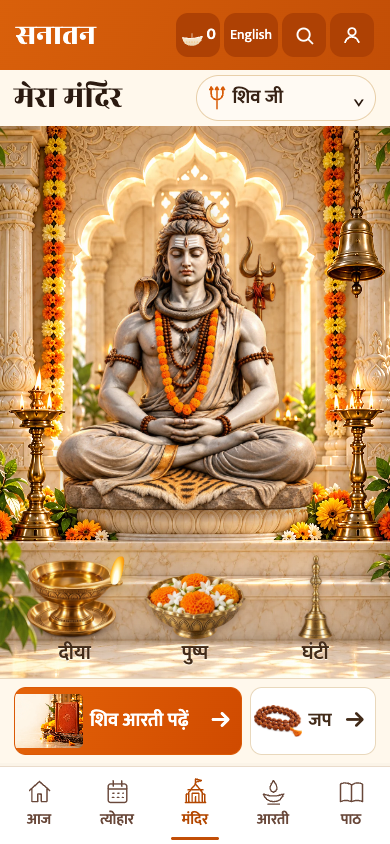
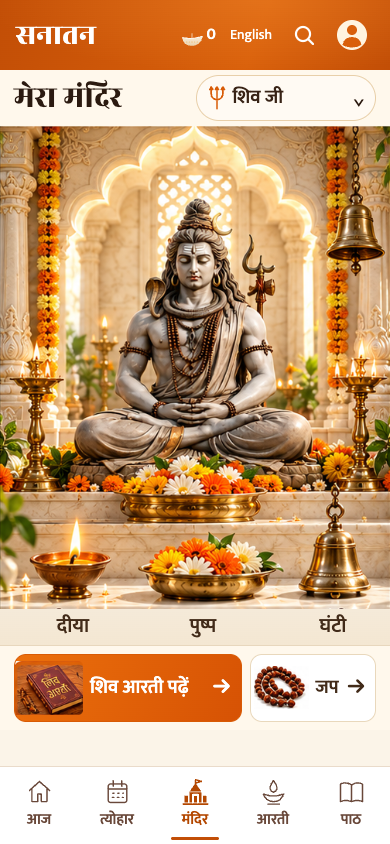
Use approved Mandir scene with live offering states

diff --git a/src/index.css b/src/index.css
@@ -264,14 +264,14 @@ h1, h2, h3 { text-wrap: balance; }
 
 /* Shared saffron-and-ivory redesign: readable text stays live, never baked into art. */
 .app-shell { padding-bottom: calc(94px + env(safe-area-inset-bottom, 0px)); }
-.app-topbar { position: relative; z-index: 10; color: #fff; background: linear-gradient(115deg, #d9600b, #c24e06); }
+.app-topbar { position: relative; z-index: 10; color: #fff; background: radial-gradient(ellipse at 65% 0%, #f9953755, transparent 75%), linear-gradient(110deg, #c24e06, #d9600b 65%, #c24e06); }
 .topbar-row { max-width: 576px; min-height: 70px; margin: auto; padding: 8px 16px; display: flex; align-items: center; gap: 8px; }
 .topbar-brand { font-family: var(--font-display); font-size: 30px; line-height: 1.5; color: #fff; white-space: nowrap; min-height: 48px; }
 .topbar-actions { display: flex; align-items: center; gap: 4px; margin-left: auto; }
-.topbar-action, .topbar-counter, .topbar-language { min-height: 44px; min-width: 44px; display: flex; align-items: center; justify-content: center; color: #fff; background: #ae4104; border-radius: 12px; flex-shrink: 0; }
+.topbar-action, .topbar-counter, .topbar-language { min-height: 44px; min-width: 44px; display: flex; align-items: center; justify-content: center; color: #fff; background: transparent; border-radius: 12px; flex-shrink: 0; }
 .topbar-counter { gap: 2px; padding: 0 4px; font-size: 16px; font-weight: 600; }
 .topbar-language { font-size: 14px; padding: 0 6px; }
-.topbar-action:active, .topbar-language:active { background: #923701; }
+.topbar-action:active, .topbar-language:active { background: #ffffff20; }
 .app-topbar :focus-visible { outline-color: #fff; }
 .app-tabbar { position: fixed; inset: auto 0 0; z-index: 30; background: #fff; border-top: 1px solid #eadbca; padding-bottom: env(safe-area-inset-bottom, 0px); }
 .tabbar-inner { max-width: 576px; margin: auto; display: grid; grid-template-columns: repeat(5, minmax(0, 1fr)); }
@@ -403,29 +403,27 @@ button, a, input, select { touch-action: manipulation; }
 .mandir-form-switch { display: flex; width: fit-content; margin: 16px auto 0; padding: 3px; background: #fff; border-radius: 12px; border: 1px solid #eddfca; }
 .mandir-form-switch button { min-height: 44px; padding: 5px 14px; font-size: .95rem; border-radius: 9px; }
 .mandir-form-switch button[aria-pressed=true] { background: #f9e3c6; color: #913900; font-weight: 600; }
-.mandir-shrine { position: relative; height: clamp(380px, calc(100svh - 292px), 700px); overflow: hidden; touch-action: pan-y; background: #f4dfbe url('/art/redesign/mandir-sunlit-v2.webp') center top / 100% 118% no-repeat; }
-.mandir-statue { position: absolute; left: 50%; width: auto; max-width: none; z-index: 2; filter: drop-shadow(0 8px 5px #6b411943); }
-.mandir-statue-shadow { position: absolute; bottom: 28%; left: 17%; width: 66%; height: 5%; background: radial-gradient(ellipse, #70432270, transparent 70%); }
+.mandir-shrine { position: relative; aspect-ratio: 504 / 624; width: 100%; margin-bottom: 36px; touch-action: pan-y; background: #eee0c9; }
+.mandir-photo { position: absolute; inset: 0; overflow: hidden; }
+.mandir-scene { display: block; width: 100%; height: 100%; }
+.mandir-statue { position: absolute; left: 50%; width: auto; max-width: none; z-index: 2; filter: drop-shadow(0 5px 4px #6b411930); }
+.mandir-statue-shadow { position: absolute; bottom: 24%; left: 20%; width: 60%; height: 4%; background: radial-gradient(ellipse, #70432260, transparent 70%); }
 .mandir-ground { pointer-events: none; position: absolute; width: 348px; height: 90px; left: 50%; transform: translateX(-50%) scale(.85); z-index: 3; }
-.mandir-offerings { position: absolute; inset: auto 0 0; z-index: 5; display: grid; grid-template-columns: repeat(3, minmax(0, 1fr)); align-items: end; gap: 7px; padding: 8px 18px 9px; background: linear-gradient(#fff6e400, #fff4dd15); }
-.offering-control { display: flex; flex-direction: column; align-items: center; justify-content: flex-end; min-height: 110px; border-radius: 12px; }
-.offering-control:active { background: #fff6dc70; }
-.offering-object { display: block; position: relative; width: 100%; height: 84px; }
-.offering-object > img { width: 100%; height: 100%; object-fit: contain; object-position: center bottom; filter: drop-shadow(0 4px 3px #5a3a2655); }
-.offering-control:first-child .offering-object > img { padding: 5px 1px 0; }
-.offering-control:nth-child(2) .offering-object > img { padding-top: 18px; }
-.offering-control:nth-child(3) .offering-object > img { padding-inline: 7px; }
-.offering-control strong { font-size: 1.05rem; line-height: 1.5; color: #422b19; text-shadow: 0 1px #fff6e9; }
-.offering-flame { display: none; position: absolute; width: 12px; height: 29px; left: 87%; top: 1%; transform: translateX(-50%) rotate(8deg); border-radius: 75% 25% 65% 35%; background: radial-gradient(ellipse at 50% 80%, #fffef0 25%, #ffe58b 45%, #ffb31e 67%, #ed7900); box-shadow: 0 0 18px 5px #ffcf5a88; }
-.offering-lit .offering-flame { display: block; }
+.mandir-offerings { position: absolute; left: 0; right: 0; bottom: -36px; z-index: 5; display: grid; grid-template-columns: repeat(3, minmax(0, 1fr)); height: calc(28% + 36px); }
+.mandir-offerings::before { content: ''; position: absolute; left: 0; right: 0; bottom: 0; height: 36px; background: linear-gradient(#f5ead9, #f4e7d2); z-index: -1; }
+.offering-control { display: flex; flex-direction: column; align-items: center; justify-content: flex-end; min-height: 100px; padding-bottom: 3px; border-radius: 10px; }
+.offering-control:focus-visible { outline: 3px solid #af4100; outline-offset: -3px; }
+.offering-control:active { background: #ffe7ab25; }
+.offering-control strong { font-size: 1.05rem; line-height: 1.5; color: #422b19; transform: translateX(8px); }
+.mandir-extras { padding-top: 36px; }
 .mandir-mantra { text-align: center; font-family: var(--font-scripture); padding: 12px 0; font-size: 1.1rem; }
 .mandir-actions { display: grid; grid-template-columns: minmax(0, 1.8fr) minmax(0, 1fr); gap: 8px; padding: 8px 14px; background: #fff8ec; border-top: 1px solid #e8d7bd; }
 .mandir-actions > button { display: flex; align-items: center; gap: 7px; min-height: 64px; min-width: 0; padding: 6px 9px 6px 0; border: 1px solid #e9d8bc; border-radius: 12px; text-align: left; overflow: hidden; font-size: 1rem; line-height: 1.35; font-weight: 600; }
-.mandir-actions > .mandir-aarti-action { color: #fff; border-color: #da5a07; background: linear-gradient(115deg, #e56308, #cf4a00); }
+.mandir-actions > .mandir-aarti-action { color: #fff; border-color: #d95b05; background: linear-gradient(115deg, #ec700c, #d65204); }
 .mandir-actions > .mandir-jap-action { color: #422b19; background: #fff; }
 .mandir-actions img { width: 68px; height: 54px; object-fit: cover; object-position: right; border-radius: 0 5px 5px 0; flex-shrink: 0; }
-.mandir-actions .mandir-jap-action img { width: 48px; height: 50px; object-fit: contain; margin-left: 3px; }
-.mandir-actions > button > span:last-child { margin-left: auto; font-size: 1.25rem; }
+.mandir-actions .mandir-jap-action img { width: 55px; min-width: 24px; height: 50px; object-fit: contain; margin-left: 3px; flex-shrink: 1; }
+.mandir-actions > button > span:last-child { margin-left: auto; font-size: 22px; }
 @media (max-width: 359px) { .mandir-heading { gap: 6px; padding-inline: 10px; } .mandir-heading h1 { font-size: 1.45rem; } .mandir-current-deity { padding-inline: 6px; } .mandir-current-deity > img { display: none; } .mandir-current-deity select { width: 104px; } .mandir-actions { padding-inline: 10px; } .mandir-actions img { width: 53px; } .mandir-actions .mandir-jap-action img { width: 35px; } .mandir-actions > button { gap: 4px; padding-right: 6px; } }
 .mandir-quiet-actions { display: flex; gap: 12px; justify-content: center; margin: 12px 0; }
 .mandir-quiet-actions button { min-height: 48px; padding: 7px 12px; display: flex; align-items: center; gap: 8px; color: #89400b; font-weight: 600; }

diff --git a/src/features/mandir/MandirView.tsx b/src/features/mandir/MandirView.tsx
@@ -62,7 +62,7 @@ export function MandirView({ initial, openAarti, openPath }: { openAarti?: (id: 
   const [chosen, setChosen] = useState(() => (DEITIES.some((d) => d.id === initial) ? initial! : order[0].id))
   const [gopal, setGopal] = useStored('balGopal', false)
   const [ling, setLing] = useStored('shivLing', false)
-  const form = (d: (typeof DEITIES)[number]) => (d.id === 'krishna' && gopal ? { ...d, ...BAL_GOPAL } : d.id === 'shiv' && ling ? { ...d, ...SHIVLING, shrineWeek: undefined } : d)
+  const form = (d: (typeof DEITIES)[number]) => (d.id === 'krishna' && gopal ? { ...d, ...BAL_GOPAL } : d.id === 'shiv' && ling ? { ...d, ...SHIVLING, shrineScene: undefined, shrineScenes: undefined } : d)
   const deity = form(DEITIES.find((d) => d.id === chosen) ?? DEITIES[0])
   // What has been offered to each deity today (diya lit, flowers on the ground); it resets at midnight.
   const [offered_, setOffered] = useStored<{ day: string; d: Record<string, { lit?: boolean; flowers?: boolean }> }>('offerings', { day: '', d: {} })
@@ -91,10 +91,12 @@ export function MandirView({ initial, openAarti, openPath }: { openAarti?: (id: 
       : deity.id === 'shiv'
         ? { label: 'shivForm', a: 'formShiv', b: 'formLing', on: ling, set: setLing }
         : null
-  const picture = deity.shrineWeek?.[weekday] ?? deity.week?.[weekday] ?? deity.cutout ?? deity.photo
+  const picture = deity.week?.[weekday] ?? deity.cutout ?? deity.photo
+  const scene = deity.shrineScenes?.[weekday] ?? deity.shrineScene
   const box = useCutBox(picture)
   const here = (offered_.day === today ? offered_.d : {})[deity.id] ?? {}
   const lit = !!here.lit
+  const scenePhoto = scene ? (lit ? scene.lit : scene.unlit) : `/art/redesign/approved-mandir/empty${lit ? '' : '-unlit'}.webp`
   const mark = (patch: { lit?: boolean; flowers?: boolean }) => setOffered({ day: today, d: { ...(offered_.day === today ? offered_.d : {}), [deity.id]: { ...here, ...patch } } })
   const hinted = (k: 'diya' | 'bell' | 'bowl') => {
     if (!seen[k]) setSeen({ ...seen, [k]: true })
@@ -175,7 +177,7 @@ export function MandirView({ initial, openAarti, openPath }: { openAarti?: (id: 
   const [h1, h2, hr] = HALO[deity.id] ?? HALO.hanuman
   const bh = box ? box.b - box.t : 1
   const bw = box ? box.r - box.l : 1
-  const height = Math.min(sz.h * .59 / bh, sz.w * .86 / (bw * (box?.a ?? 6 / 7)))
+  const height = Math.min(sz.h * .59 / bh, sz.w * .74 / (bw * (box?.a ?? 6 / 7)))
   const aarti = AARTIS.find((a) => a.id === deity.aarti)
   const aartiName = hi ? deity.name_hi.replace(/(?: जी| माँ)$/, '') : deity.name_en.replace(/ (?:ji|Maa)$/, '')
   return (
@@ -197,20 +199,22 @@ export function MandirView({ initial, openAarti, openPath }: { openAarti?: (id: 
           const at = order.findIndex((d) => d.id === deity.id)
           pick(order[(at + (dx < 0 ? 1 : -1) + order.length) % order.length].id)
         }}>
-        <div className="mandir-statue-shadow" />
-        <img key={picture} src={picture} alt={hi ? deity.name_hi : deity.name_en} className="mandir-statue" style={{ height, bottom: sz.h * .30 - (1 - (box?.b ?? 1)) * height, transform: `translateX(-${(box?.cx ?? .5) * 100}%)`, opacity: box ? 1 : 0 }} />
-        <div className="mandir-ground" style={{ bottom: sz.h * .30 - 45 }} aria-hidden="true"><GroundFlowers on={!!here.flowers} fresh={petals > 0} /><FallFlowers wave={petals} rise={() => sz.h * .55} spread={sz.w * .6} /></div>
+        <div className="mandir-photo">
+          <img className="mandir-scene" src={scenePhoto} alt={scene ? (hi ? deity.name_hi : deity.name_en) : ''} />
+          {!scene && <><div className="mandir-statue-shadow" /><img key={picture} src={picture} alt={hi ? deity.name_hi : deity.name_en} className="mandir-statue" style={{ height, bottom: sz.h * .255 - (1 - (box?.b ?? 1)) * height, transform: `translateX(-${(box?.cx ?? .5) * 100}%)`, opacity: box ? 1 : 0 }} /></>}
+        </div>
+        <div className="mandir-ground" style={{ bottom: sz.h * .255 - 45 }} aria-hidden="true"><GroundFlowers on={!!here.flowers} fresh={petals > 0} /><FallFlowers wave={petals} rise={() => sz.h * .55} spread={sz.w * .6} /></div>
         <div className="mandir-offerings" role="group" aria-label={t('darshanHint')}>
-          <button className={`offering-control ${lit ? 'offering-lit' : ''}`} onClick={light} aria-pressed={lit} aria-label={lit ? t('diyaLit') : t('lightDiya')}><span className="offering-object"><img src="/art/redesign/mandir-brass-diya-v2.webp" alt="" /><span className="offering-flame" aria-hidden="true" /></span><strong>{t('r_offeringDiya')}</strong></button>
-          <button className="offering-control" onClick={flowers} aria-pressed={!!here.flowers} aria-label={t('offerFlowers')}><span className="offering-object"><img src="/art/redesign/offering-flowers.webp" alt="" /></span><strong>{t('r_offeringFlowers')}</strong></button>
-          <button className="offering-control" onClick={bell} aria-label={t('ringBell')}><span className="offering-object"><img src="/art/redesign/offering-bell.webp" alt="" /></span><strong>{t('bell')}</strong></button>
+          <button className={`offering-control ${lit ? 'offering-lit' : ''}`} onClick={light} aria-pressed={lit} aria-label={lit ? t('diyaLit') : t('lightDiya')}><strong>{t('r_offeringDiya')}</strong></button>
+          <button className="offering-control" onClick={flowers} aria-pressed={!!here.flowers} aria-label={t('offerFlowers')}><strong>{t('r_offeringFlowers')}</strong></button>
+          <button className="offering-control" onClick={bell} aria-label={t('ringBell')}><strong>{t('bell')}</strong></button>
         </div>
       </div>
       <div className="mandir-actions">
-        {aarti && <button className="mandir-aarti-action" onClick={() => openAarti?.(aarti.id, deity.id)}><img src="/art/redesign/path-banner.webp" alt="" /><span>{t('r_mandirReadAarti', { name: aartiName })}</span><span aria-hidden="true">→</span></button>}
-        <button className="mandir-jap-action" onClick={() => document.getElementById('mandir-mala')?.scrollIntoView({ behavior: 'smooth', block: 'start' })}><img src="/art/redesign/jap-mala.webp" alt="" /><span>{t('r_jap')}</span><span aria-hidden="true">→</span></button>
+        {aarti && <button className="mandir-aarti-action" onClick={() => openAarti?.(aarti.id, deity.id)}><img src="/art/redesign/approved-mandir/aarti-book.png" alt="" /><span>{t('r_mandirReadAarti', { name: aartiName })}</span><span aria-hidden="true">→</span></button>}
+        <button className="mandir-jap-action" onClick={() => document.getElementById('mandir-mala')?.scrollIntoView({ behavior: 'smooth', block: 'start' })}><img src="/art/redesign/approved-mandir/jap-mala.png" alt="" /><span>{t('r_jap')}</span><span aria-hidden="true">→</span></button>
       </div>
-      <div className="page-content">
+      <div className="page-content mandir-extras">
         {formSwitch && <div className="mandir-form-switch" role="group" aria-label={t(formSwitch.label)}>{[false, true].map((on) => <button key={String(on)} aria-pressed={formSwitch.on === on} onClick={() => { formSwitch.set(on); setPetals(0) }}>{t(on ? formSwitch.b : formSwitch.a)}</button>)}</div>}
         <p className="mandir-mantra">{deity.mantra}</p>
         <div className="mandir-quiet-actions"><button onClick={music} aria-pressed={playing}>{t('music')} · {t(playing ? 'pause' : 'play')}</button><button onClick={meditate}><DhyanIcon size={22} /> {t('dhyan')}</button></div>

diff --git a/src/content/deities.ts b/src/content/deities.ts
@@ -12,8 +12,9 @@ export interface Deity {
   home?: string
   /** One cut-out per weekday (0 = Sunday), so the darshan changes every day; falls back to cutout. */
   week?: string[]
-  /** Mandir-only artwork matched to the selected shrine; original weekday and safe card photos are retained. */
-  shrineWeek?: string[]
+  /** Approved complete Mandir scene; daily variants preserve the same deity and architecture. */
+  shrineScene?: { lit: string; unlit: string }
+  shrineScenes?: { lit: string; unlit: string }[]
   /** Sideways nudge of the cut-out, in % of its width, so the deity's face sits on the halo's centre line. */
   dx?: number
   /** Head and shoulders from the cut-out, for the round picker */
@@ -33,7 +34,7 @@ export const SHIVLING = { name_hi: 'शिवलिंग', name_en: 'Shivling',
 
 export const DEITIES: Deity[] = [
   { id: 'ganesh', name_hi: 'गणेश जी', name_en: 'Ganesh ji', photo: '/art/deity/ganesh-cut.webp', thumb: '/art/deity/ganesh-face.webp', cutout: '/art/deity/ganesh-cut.webp', week: [1, 2, 3, 4, 5, 6, 7].map((n) => `/art/deity/ganesh/${n}.webp`), face: '/art/deity/ganesh-face.webp', home: '/art/deity/ganesh-home.webp', card: '/art/photo/fv3EpXA6jCA.jpg', aarti: 'ganesh', mantra: 'ॐ गं गणपतये नमः', days: [3] },
-  { id: 'shiv', shrineWeek: [1, 2, 3, 4, 5, 6, 7].map((n) => `/art/redesign/shiv/${n}.webp`), name_hi: 'शिव जी', name_en: 'Shiv ji', photo: '/art/deity/shiv-cut.webp', thumb: '/art/deity/shiv-face.webp', cutout: '/art/deity/shiv-cut.webp', week: [1, 2, 3, 4, 5, 6, 7].map((n) => `/art/deity/shiv/${n}.webp`), face: '/art/deity/shiv-face.webp', home: '/art/deity/shiv-home.webp', card: '/art/photo/JxJ15qeVisk.jpg', aarti: 'shiv', mantra: 'ॐ नमः शिवाय', days: [1] },
+  { id: 'shiv', shrineScene: { lit: '/art/redesign/approved-mandir/shiv-2.webp', unlit: '/art/redesign/approved-mandir/shiv-2-unlit.webp' }, shrineScenes: [1, 2, 3, 4, 5, 6, 7].map((n) => ({ lit: `/art/redesign/approved-mandir/shiv-${n}.webp`, unlit: `/art/redesign/approved-mandir/shiv-${n}-unlit.webp` })), name_hi: 'शिव जी', name_en: 'Shiv ji', photo: '/art/deity/shiv-cut.webp', thumb: '/art/deity/shiv-face.webp', cutout: '/art/deity/shiv-cut.webp', week: [1, 2, 3, 4, 5, 6, 7].map((n) => `/art/deity/shiv/${n}.webp`), face: '/art/deity/shiv-face.webp', home: '/art/deity/shiv-home.webp', card: '/art/photo/JxJ15qeVisk.jpg', aarti: 'shiv', mantra: 'ॐ नमः शिवाय', days: [1] },
   { id: 'hanuman', name_hi: 'हनुमान जी', name_en: 'Hanuman ji', photo: '/art/deity/hanuman-cut.webp', thumb: '/art/deity/hanuman-face.webp', cutout: '/art/deity/hanuman-cut.webp', week: [1, 2, 3, 4, 5, 6, 7].map((n) => `/art/deity/hanuman/${n}.webp`), face: '/art/deity/hanuman-face.webp', home: '/art/deity/hanuman-home.webp', card: '/art/photo/1qvWMJv_NUU.jpg', aarti: 'hanuman', mantra: 'ॐ हं हनुमते नमः', days: [2, 6] },
   { id: 'vishnu', name_hi: 'विष्णु जी', name_en: 'Vishnu ji', photo: '/art/deity/vishnu-cut.webp', thumb: '/art/deity/vishnu-face.webp', cutout: '/art/deity/vishnu-cut.webp', week: [1, 2, 3, 4, 5, 6, 7].map((n) => `/art/deity/vishnu/${n}.webp`), face: '/art/deity/vishnu-face.webp', home: '/art/deity/vishnu-home.webp', card: '/art/photo/99DGEk5yHqg.jpg', aarti: 'jagdish', mantra: 'ॐ नमो भगवते वासुदेवाय', days: [4] },
   { id: 'lakshmi', name_hi: 'लक्ष्मी माँ', name_en: 'Lakshmi Maa', photo: '/art/deity/lakshmi-cut.webp', thumb: '/art/deity/lakshmi-face.webp', cutout: '/art/deity/lakshmi-cut.webp', week: [1, 2, 3, 4, 5, 6, 7].map((n) => `/art/deity/lakshmi/${n}.webp`), face: '/art/deity/lakshmi-face.webp', home: '/art/deity/lakshmi-home.webp', card: '/art/lakshmi-1896.jpg', aarti: 'lakshmi', mantra: 'ॐ श्रीं महालक्ष्म्यै नमः', days: [5] },

diff --git a/src/ui/TopBar.tsx b/src/ui/TopBar.tsx
@@ -35,12 +35,13 @@ export function TopBar({ onSearch, onHome, onProfile }: { onSearch: () => void; 
             void i18n.changeLanguage(next)
           }}>{t('lang')}</button>
           <button className={round} onClick={onSearch} aria-label={t('searchTitle')}>
-            <SearchGlyph size={21} />
+            <SearchGlyph size={24} />
           </button>
           <button className={round} onClick={onProfile} aria-label={t('profileBtn')}>
-            <svg width="22" height="22" viewBox="0 0 24 24" fill="none" stroke="currentColor" strokeWidth="2" strokeLinecap="round" aria-hidden="true">
-              <circle cx="12" cy="8.5" r="4" />
-              <path d="M4.5 20c1.2-4 4.2-6 7.5-6s6.3 2 7.5 6" />
+            <svg width="32" height="32" viewBox="0 0 32 32" aria-hidden="true">
+              <circle cx="16" cy="16" r="15" fill="#fff4df" />
+              <circle cx="16" cy="11" r="5" fill="#d9600b" />
+              <path d="M6.5 26c.8-5.5 4.5-8 9.5-8s8.7 2.5 9.5 8c-5.6 3.4-13.4 3.4-19 0Z" fill="#d9600b" />
             </svg>
           </button>
         </div>

diff --git a/src/ui/TabIcons.tsx b/src/ui/TabIcons.tsx
@@ -13,7 +13,8 @@ export function TabCalendar() {
 export function TabDiya() {
   return <Svg><path d="M4 19q12 5 24 0-3 9-12 9T4 19ZM16 3c6 8 5 12 0 14-5-2-6-6 0-14ZM9 31h14" /></Svg>
 }
-export function TabMandir() {
+export function TabMandir({ filled = false }: { filled?: boolean }) {
+  if (filled) return <Svg><path d="M16 2v5m0-5 7 2-7 2" /><path fill="currentColor" stroke="none" d="m16 6 7 10H9ZM9 17h14v12H9ZM3 21h4v8H3Zm22 0h4v8h-4ZM1 30h30v2H1Z" /><path d="M13 29V20h6v9" stroke="#fff" strokeWidth="2.5" /></Svg>
   return <Svg><path d="M16 7V1l7 2-7 2M8 29V17l8-10 8 10v12M4 29h24M12 29V18h8v11M7 14h18M5 29V19h3m16 0h3v10M16 22v7" /></Svg>
 }
 export function TabBell() {

diff --git a/src/App.tsx b/src/App.tsx
@@ -88,7 +88,7 @@ export default function App() {
   const tabs: [Tab, ReactNode, string][] = [
     ['aaj', <TabSun />, t('nav_aaj')],
     ['tyohar', <TabCalendar />, t('nav_tyohar')],
-    ['mandir', <TabMandir />, t('nav_mandir')],
+    ['mandir', <TabMandir filled={route.tab === 'mandir'} />, t('nav_mandir')],
     ['aarti', <TabDiya />, t('nav_aarti')],
     ['path', <TabBook />, t('nav_path')],
   ]

diff --git a/docs/redesign/mandir-fidelity/README.md b/docs/redesign/mandir-fidelity/README.md
@@ -1,0 +1,29 @@
+# Mandir: implementation from the approved artwork
+
+The earlier reconstruction was rejected because its Shiva, architecture, lighting and object proportions diverged from option 5. This version uses a lossless crop of the approved right-hand scene itself, not a regenerated replacement deity or shrine.
+
+Source: `05-living-temple-today-and-mandir.png`, rectangle x=752, y=178, width=504, height=624. The exact extracted image is approved-scene.png. Aarti-book and Jap-mala photographs are also extracted from that reference. No navigation, heading, label or button text is baked into the shrine photo: those remain accessible HTML controls with Hindi / English labels and large hit areas over the actual offering objects.
+
+## Interactive states
+
+- Diya: a generated local marble/wick patch removes the front flame for the unlit state. Tapping reveals the approved original flame. No separately redrawn lamp is placed over the scene.
+- Daily pictures: Monday preserves the entire approved scene. The other six variants change only a narrow loose-flower strip at x=100, y=450, width=290, height=29. Every pixel of the approved Shiva's face, body and pose remains identical after production WebP decoding. The variations are decorative artwork, not claims about weekday rituals.
+- Other deities and Shivling: an empty niche is reconstructed only within a bounded central region; the surrounding approved architecture, lamps and foreground offerings are retained. Original weekday cutouts are placed there. Bal Gopal, swipe and saved selection remain available.
+- The diya counter, cumulative darshan days, mala counts, Aarti/Path routes, meditation and 94-temple library retain their existing logic and storage keys. Share-card deity photos remain unchanged.
+
+The shared toolbar now uses plain white controls and a filled profile symbol; the selected Mandir tab uses the reference's solid silhouette. English and darshan/calendar entry remain available. Additional real features continue below the main composition.
+
+## Evidence
+
+- pixel-verification.json records the source crop, protected deity region, daily edit region and lamp patch.
+- artwork-edits.json records the built-in image tool prompts and source outputs. Generated pixels are used only inside those local state/decorative regions; the primary deity is the approved original.
+- Seven daily scene URLs, lit/unlit state, offerings counting once, Shivling, Bal Gopal, all other deities, swipe, Aarti and Jap passed browser checks.
+- Hindi / English at 320 and 390 px with enlarged text passed without clipped action labels or horizontal overflow.
+- TypeScript, 20 tests and production build passed. The production PWA loaded the new scene and lamp state offline after installation.
+- Complete offline precache is about 45 MB; the existing large-main-bundle warning remains.
+
+## Saved assets
+
+Production art is in `/Users/falcon/Documents/ChatGPT/SanatanGpt/public/art/redesign/approved-mandir/`: shiv-1.webp through shiv-7.webp, their -unlit variants, empty.webp / empty-unlit.webp, aarti-book.png and jap-mala.png. The original crop is `/Users/falcon/Documents/ChatGPT/SanatanGpt/docs/redesign/mandir-fidelity/approved-scene.png`.
+
+The previous generated statue reconstruction is removed from active production assets. No devotional text, original deity field, existing storage key, hosting setting or live deployment was changed. This supersedes the previous Mandir correction before PR review.

diff --git a/docs/redesign/pr-3/README.md b/docs/redesign/pr-3/README.md
@@ -2,7 +2,7 @@
 
 Today uses the chosen option-4 composition: a large daily deity photograph, four photo tiles, a compact live panchang strip, and the existing calendar, mantra, daily Gita verse, meditation and discovery links. Sharing stays on the greeting detail screen, reached from a quiet home entry.
 
-Mandir follows option 5 with an ivory marble shrine and integrated, large labelled Diya / Flowers / Bell controls. Existing deity cutouts and weekday pictures remain the source of identity; the generated background is an empty decorative shrine. The new decorative offering photographs are generated assets. Aarti and Jap are adjacent, with the original form switches, swipe, clockwise mala, music, meditation and all 94 temple pages preserved.
+Mandir uses the actual approved option-5 scene, with large live Diya / Flowers / Bell controls. The Shiva figure, architecture and foreground objects retain the original reference pixels. Other deities use their original weekday cutouts inside a locally reconstructed empty niche. Aarti and Jap are adjacent, with the original form switches, swipe, clockwise mala, music, meditation and all 94 temple pages preserved.
 
 ## Verification
 
@@ -16,4 +16,6 @@ Depends on PRs 1 and 2, in that order. Review into `app-source`; no deployment o
 
 ## Mandir visual correction, 27 October
 
-The initial Mandir implementation did not match the selected option 5 closely enough. It has been corrected to use the compact title / picker row, uninterrupted sunlit lattice shrine, seated Shiva daily set, integrated offering ledge and photo-backed Aarti / Jap actions. Original deity data is preserved; only an optional Mandir image field is added. The previous attempt, chosen reference and corrected app are shown together in `../mandir-correction/comparison.png`. Stage-3 TypeScript, 11 tests and production build were re-run successfully after the correction.
+The earlier reconstructions did not match option 5. This correction uses the approved scene itself, losslessly extracted. The primary Shiva pixels remain identical across seven daily decorative flower variants; a small local patch supplies the unlit diya state. Labels, offerings, navigation and Aarti/Jap actions are live HTML. Original deity fields and safe share-card photos remain unchanged; only optional scene metadata is added.
+
+See `../mandir-fidelity/comparison.png`, its README and pixel-verification.json. Historical `mandir-correction` images show the rejected attempt and are superseded. Production offline reload and diya state changes pass. Stage-3 TypeScript, 11 tests and build are re-run before PR publication.
